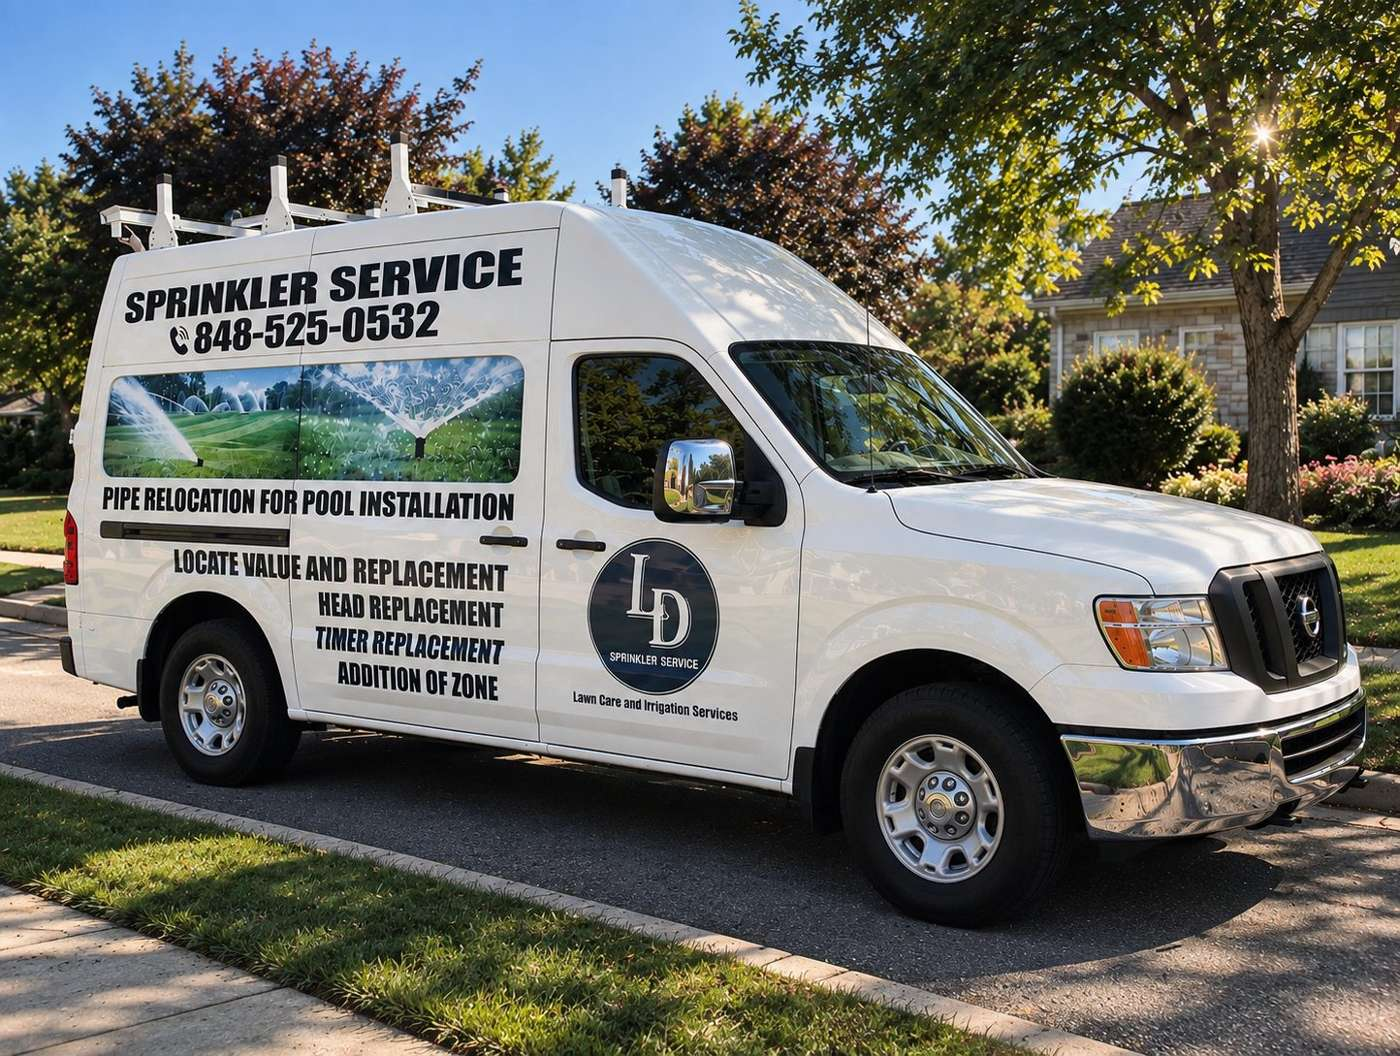
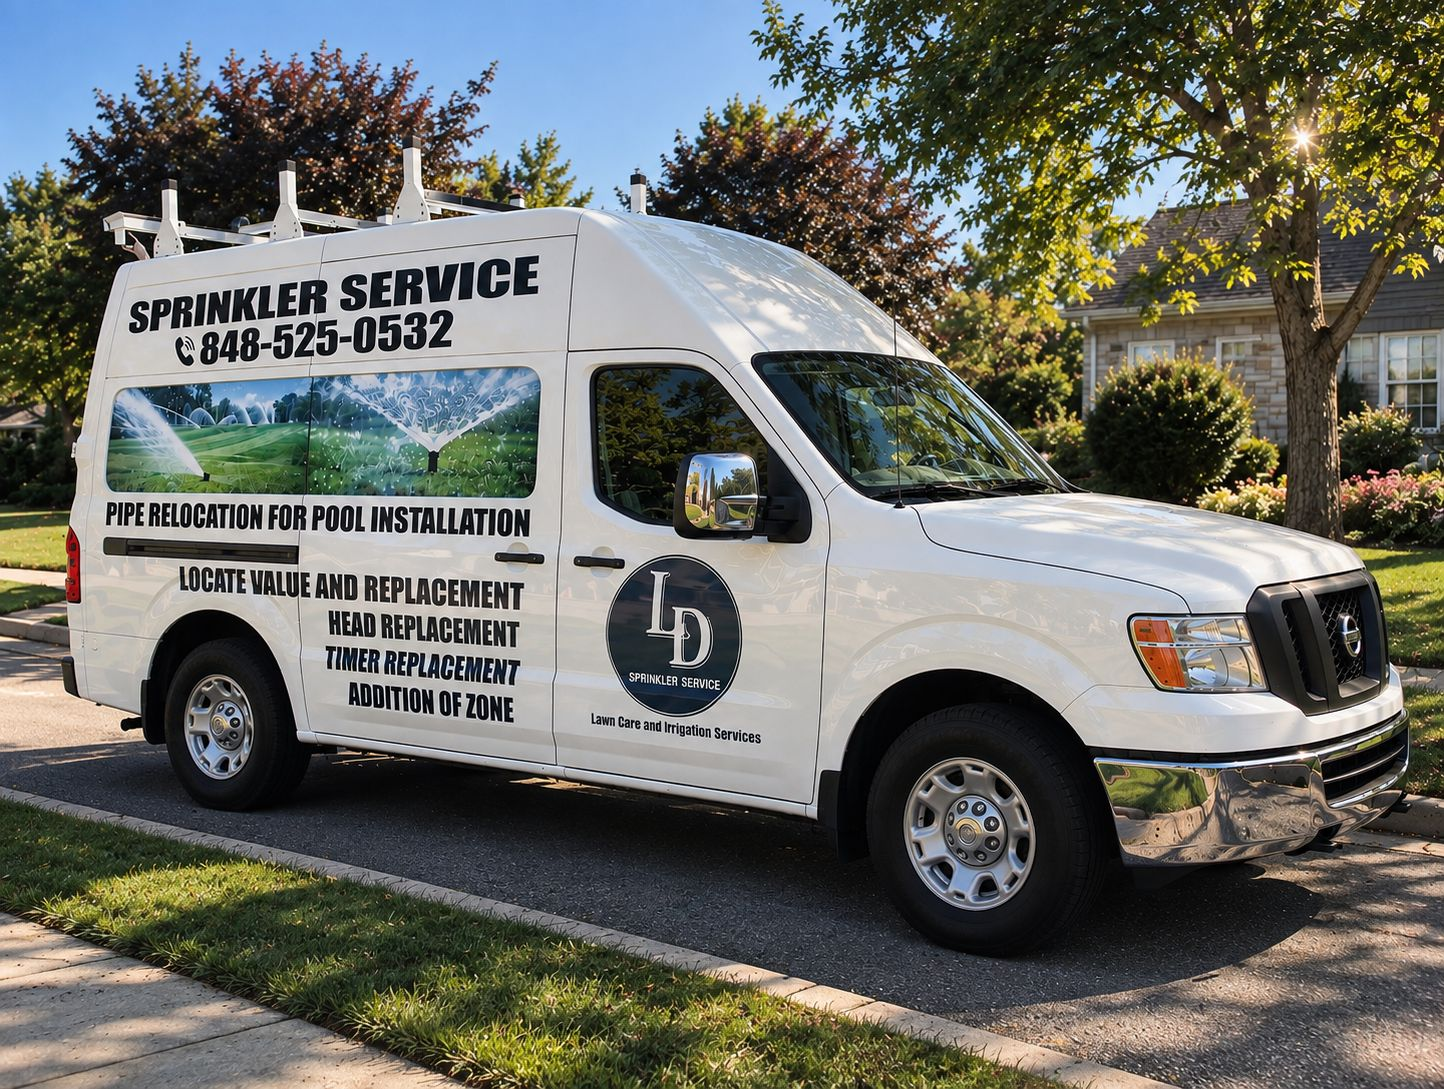
Keep the full rotating slideshow on phones and use sharper slideshow photos
Claude-Session: https://claude.ai/code/session_015CdVwxxU6m5SAg8a3gnGzL

diff --git a/index.html b/index.html
@@ -103,7 +103,6 @@ a{color:#1F2226}a:hover{color:#2B2E33}
 .hero-slides .hs img{position:absolute;inset:0;width:100%;height:100%;display:block}
 .hs-bg{display:none!important}
 .hs-fg{object-fit:cover;object-position:center 55%}
-@media (max-width:700px){.hero-slides .hs:not(:first-child){display:none}.hero-slides .hs:first-child{animation:none;opacity:1}}
 .hero-slides .hs:nth-child(1){opacity:1;animation-delay:0s}
 .hero-slides .hs:nth-child(2){animation-delay:6s}
 .hero-slides .hs:nth-child(3){animation-delay:12s}
@@ -323,10 +322,10 @@ h2.help-h{font-size:34px!important;white-space:nowrap!important}
 <!-- Hero -->
 <section id="top" class="hero" style="background: #2B2E33">
 <div class="hero-slides" aria-hidden="true">
-<div class="hs"><img class="hs-fg" src="images/hero-lawn.jpg" srcset="images/hero-lawn-800.jpg 800w, images/hero-lawn.jpg 1400w" sizes="100vw" alt="" fetchpriority="high" decoding="async"></div>
-<div class="hs"><img class="hs-fg" src="images/pool-lighting.jpg" srcset="images/pool-lighting-800.jpg 800w, images/pool-lighting.jpg 1400w" sizes="100vw" alt="" loading="lazy" decoding="async"></div>
-<div class="hs"><img class="hs-fg" src="images/van.jpg" srcset="images/van-800.jpg 800w, images/van.jpg 1400w" sizes="100vw" alt="" loading="lazy" decoding="async"></div>
-<div class="hs"><img class="hs-fg" src="images/truck-street.jpg" srcset="images/truck-street-800.jpg 800w, images/truck-street.jpg 1400w" sizes="100vw" alt="" loading="lazy" decoding="async"></div>
+<div class="hs"><img class="hs-fg" src="images/hero-lawn.jpg" srcset="images/hero-lawn-800.jpg 1000w, images/hero-lawn.jpg 1536w" sizes="100vw" alt="" fetchpriority="high" decoding="async"></div>
+<div class="hs"><img class="hs-fg" src="images/pool-lighting.jpg" srcset="images/pool-lighting-800.jpg 1000w, images/pool-lighting.jpg 1536w" sizes="100vw" alt="" loading="lazy" decoding="async"></div>
+<div class="hs"><img class="hs-fg" src="images/van.jpg" srcset="images/van-800.jpg 1000w, images/van.jpg 1444w" sizes="100vw" alt="" loading="lazy" decoding="async"></div>
+<div class="hs"><img class="hs-fg" src="images/truck-street.jpg" srcset="images/truck-street-800.jpg 1000w, images/truck-street.jpg 1536w" sizes="100vw" alt="" loading="lazy" decoding="async"></div>
 </div>
 <div style="position: absolute; inset: 0; background: linear-gradient(180deg, rgba(31,34,38,0.15) 0%, rgba(31,34,38,0.35) 40%, rgba(31,34,38,0.88) 100%)"></div>
 <div class="wrap" style="position: relative; padding-top: 120px; padding-bottom: 72px">
@@ -610,19 +609,19 @@ Call 848-525-0532</a>
 </div>
 <div class="album">
 <figure class="alb-item alb-wide">
-<img src="images/hero-lawn.jpg" srcset="images/hero-lawn-800.jpg 800w, images/hero-lawn.jpg 1400w" sizes="(max-width: 960px) 100vw, 1160px" loading="lazy" decoding="async" alt="Irrigation system running across a front lawn" style="object-position: center 60%">
+<img src="images/hero-lawn.jpg" srcset="images/hero-lawn-800.jpg 1000w, images/hero-lawn.jpg 1536w" sizes="(max-width: 960px) 100vw, 1160px" loading="lazy" decoding="async" alt="Irrigation system running across a front lawn" style="object-position: center 60%">
 <figcaption>Irrigation System Service</figcaption>
 </figure>
 <figure class="alb-item">
-<img src="images/pool-lighting.jpg" srcset="images/pool-lighting-800.jpg 800w, images/pool-lighting.jpg 1400w" sizes="(max-width: 960px) 100vw, 1160px" loading="lazy" decoding="async" alt="Backyard pool at dusk with pathway and garden lighting" style="object-position: center">
+<img src="images/pool-lighting.jpg" srcset="images/pool-lighting-800.jpg 1000w, images/pool-lighting.jpg 1536w" sizes="(max-width: 960px) 100vw, 1160px" loading="lazy" decoding="async" alt="Backyard pool at dusk with pathway and garden lighting" style="object-position: center">
 <figcaption>Landscape Lighting</figcaption>
 </figure>
 <figure class="alb-item">
-<img src="images/van.jpg" srcset="images/van-800.jpg 800w, images/van.jpg 1400w" sizes="(max-width: 960px) 100vw, 1160px" loading="lazy" decoding="async" alt="White LD Sprinkler Systems service van parked on a residential street" style="object-position: center 55%">
+<img src="images/van.jpg" srcset="images/van-800.jpg 1000w, images/van.jpg 1444w" sizes="(max-width: 960px) 100vw, 1160px" loading="lazy" decoding="async" alt="White LD Sprinkler Systems service van parked on a residential street" style="object-position: center 55%">
 <figcaption>Look for Our Truck in Your Neighborhood</figcaption>
 </figure>
 <figure class="alb-item alb-wide">
-<img src="images/truck-street.jpg" srcset="images/truck-street-800.jpg 800w, images/truck-street.jpg 1400w" sizes="(max-width: 960px) 100vw, 1160px" loading="lazy" decoding="async" alt="LD Sprinkler Systems pickup truck parked on a tree-lined residential street" style="object-position: center 62%">
+<img src="images/truck-street.jpg" srcset="images/truck-street-800.jpg 1000w, images/truck-street.jpg 1536w" sizes="(max-width: 960px) 100vw, 1160px" loading="lazy" decoding="async" alt="LD Sprinkler Systems pickup truck parked on a tree-lined residential street" style="object-position: center 62%">
 <figcaption>On the Job Across Central Jersey</figcaption>
 </figure>
 </div>
